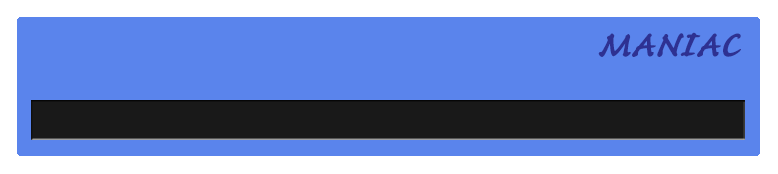
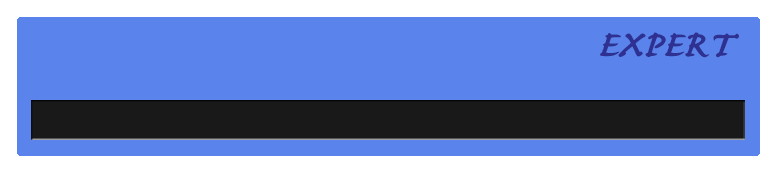
演奏モード名を変更。（MANIAC → EXPERT）

Changed region(s): [[0.7712, 0.1724, 0.9563, 0.3448]]

diff --git a/DTXmatixx/設定/ドラムチッププロパティ管理.cs b/DTXmatixx/設定/ドラムチッププロパティ管理.cs
@@ -1080,78 +1080,78 @@ namespace DTXmatixx.設定
                 switch( kvp.Key )
                 {
                     case チップ種別.Ride:
-                        kvp.Value.表示チップ種別 = ( this._演奏モード == PlayMode.MANIAC ) ?
+                        kvp.Value.表示チップ種別 = ( this._演奏モード == PlayMode.EXPERT ) ?
                             ( ( this._表示レーンの左右.Rideは左 ) ? 表示チップ種別.LeftRide : 表示チップ種別.RightRide ) :
                             ( ( this._表示レーンの左右.Rideは左 ) ? 表示チップ種別.LeftCymbal : 表示チップ種別.RightCymbal );
                         break;
 
                     case チップ種別.Ride_Cup:
-                        kvp.Value.表示チップ種別 = ( this._演奏モード == PlayMode.MANIAC ) ?
+                        kvp.Value.表示チップ種別 = ( this._演奏モード == PlayMode.EXPERT ) ?
                             ( ( this._表示レーンの左右.Rideは左 ) ? 表示チップ種別.LeftRide_Cup : 表示チップ種別.RightRide_Cup ) :
                             ( ( this._表示レーンの左右.Rideは左 ) ? 表示チップ種別.LeftCymbal : 表示チップ種別.RightCymbal );
                         break;
 
                     case チップ種別.China:
-                        kvp.Value.表示チップ種別 = ( this._演奏モード == PlayMode.MANIAC ) ?
+                        kvp.Value.表示チップ種別 = ( this._演奏モード == PlayMode.EXPERT ) ?
                             ( ( this._表示レーンの左右.Chinaは左 ) ? 表示チップ種別.LeftChina : 表示チップ種別.RightChina ) :
                             ( ( this._表示レーンの左右.Chinaは左 ) ? 表示チップ種別.LeftCymbal : 表示チップ種別.RightCymbal );
                         break;
 
                     case チップ種別.Splash:
-                        kvp.Value.表示チップ種別 = ( this._演奏モード == PlayMode.MANIAC ) ?
+                        kvp.Value.表示チップ種別 = ( this._演奏モード == PlayMode.EXPERT ) ?
                             ( ( this._表示レーンの左右.Splashは左 ) ? 表示チップ種別.LeftSplash : 表示チップ種別.RightSplash ) :
                             ( ( this._表示レーンの左右.Splashは左 ) ? 表示チップ種別.LeftCymbal : 表示チップ種別.RightCymbal );
                         break;
 
                     case チップ種別.HiHat_Open:
-                        kvp.Value.表示チップ種別 = ( this._演奏モード == PlayMode.MANIAC ) ? 表示チップ種別.HiHat_Open : 表示チップ種別.HiHat;
+                        kvp.Value.表示チップ種別 = ( this._演奏モード == PlayMode.EXPERT ) ? 表示チップ種別.HiHat_Open : 表示チップ種別.HiHat;
                         break;
 
                     case チップ種別.HiHat_HalfOpen:
-                        kvp.Value.表示チップ種別 = ( this._演奏モード == PlayMode.MANIAC ) ? 表示チップ種別.HiHat_HalfOpen : 表示チップ種別.HiHat;
+                        kvp.Value.表示チップ種別 = ( this._演奏モード == PlayMode.EXPERT ) ? 表示チップ種別.HiHat_HalfOpen : 表示チップ種別.HiHat;
                         break;
 
                     case チップ種別.HiHat_Foot:
-                        kvp.Value.表示チップ種別 = ( this._演奏モード == PlayMode.MANIAC ) ? 表示チップ種別.Foot : 表示チップ種別.LeftPedal;
+                        kvp.Value.表示チップ種別 = ( this._演奏モード == PlayMode.EXPERT ) ? 表示チップ種別.Foot : 表示チップ種別.LeftPedal;
                         break;
 
                     case チップ種別.Snare_OpenRim:
-                        kvp.Value.表示チップ種別 = ( this._演奏モード == PlayMode.MANIAC ) ? 表示チップ種別.Snare_OpenRim : 表示チップ種別.Snare;
+                        kvp.Value.表示チップ種別 = ( this._演奏モード == PlayMode.EXPERT ) ? 表示チップ種別.Snare_OpenRim : 表示チップ種別.Snare;
                         break;
 
                     case チップ種別.Snare_ClosedRim:
-                        kvp.Value.表示チップ種別 = ( this._演奏モード == PlayMode.MANIAC ) ? 表示チップ種別.Snare_ClosedRim : 表示チップ種別.Snare;
+                        kvp.Value.表示チップ種別 = ( this._演奏モード == PlayMode.EXPERT ) ? 表示チップ種別.Snare_ClosedRim : 表示チップ種別.Snare;
                         break;
 
                     case チップ種別.Snare_Ghost:
-                        kvp.Value.表示チップ種別 = ( this._演奏モード == PlayMode.MANIAC ) ? 表示チップ種別.Snare_Ghost : 表示チップ種別.Unknown;
+                        kvp.Value.表示チップ種別 = ( this._演奏モード == PlayMode.EXPERT ) ? 表示チップ種別.Snare_Ghost : 表示チップ種別.Unknown;
                         break;
 
                     case チップ種別.LeftBass:
-                        kvp.Value.表示チップ種別 = ( this._演奏モード == PlayMode.MANIAC ) ? 表示チップ種別.Bass : 表示チップ種別.LeftBass;
-                        kvp.Value.表示レーン種別 = ( this._演奏モード == PlayMode.MANIAC ) ? 表示レーン種別.Bass : 表示レーン種別.Foot;
+                        kvp.Value.表示チップ種別 = ( this._演奏モード == PlayMode.EXPERT ) ? 表示チップ種別.Bass : 表示チップ種別.LeftBass;
+                        kvp.Value.表示レーン種別 = ( this._演奏モード == PlayMode.EXPERT ) ? 表示レーン種別.Bass : 表示レーン種別.Foot;
                         break;
 
                     case チップ種別.Tom1_Rim:
-                        kvp.Value.表示チップ種別 = ( this._演奏モード == PlayMode.MANIAC ) ? 表示チップ種別.Tom1_Rim : 表示チップ種別.Tom1;
+                        kvp.Value.表示チップ種別 = ( this._演奏モード == PlayMode.EXPERT ) ? 表示チップ種別.Tom1_Rim : 表示チップ種別.Tom1;
                         break;
 
                     case チップ種別.Tom2_Rim:
-                        kvp.Value.表示チップ種別 = ( this._演奏モード == PlayMode.MANIAC ) ? 表示チップ種別.Tom2_Rim : 表示チップ種別.Tom2;
+                        kvp.Value.表示チップ種別 = ( this._演奏モード == PlayMode.EXPERT ) ? 表示チップ種別.Tom2_Rim : 表示チップ種別.Tom2;
                         break;
 
                     case チップ種別.Tom3_Rim:
-                        kvp.Value.表示チップ種別 = ( this._演奏モード == PlayMode.MANIAC ) ? 表示チップ種別.Tom3_Rim : 表示チップ種別.Tom3;
+                        kvp.Value.表示チップ種別 = ( this._演奏モード == PlayMode.EXPERT ) ? 表示チップ種別.Tom3_Rim : 表示チップ種別.Tom3;
                         break;
 
                     case チップ種別.LeftCymbal_Mute:
-                        kvp.Value.表示チップ種別 = ( this._演奏モード == PlayMode.MANIAC ) ? 表示チップ種別.LeftCymbal_Mute : 表示チップ種別.Unknown;
-                        kvp.Value.表示レーン種別 = ( this._演奏モード == PlayMode.MANIAC ) ? 表示レーン種別.LeftCymbal : 表示レーン種別.Unknown;
+                        kvp.Value.表示チップ種別 = ( this._演奏モード == PlayMode.EXPERT ) ? 表示チップ種別.LeftCymbal_Mute : 表示チップ種別.Unknown;
+                        kvp.Value.表示レーン種別 = ( this._演奏モード == PlayMode.EXPERT ) ? 表示レーン種別.LeftCymbal : 表示レーン種別.Unknown;
                         break;
 
                     case チップ種別.RightCymbal_Mute:
-                        kvp.Value.表示チップ種別 = ( this._演奏モード == PlayMode.MANIAC ) ? 表示チップ種別.RightCymbal_Mute : 表示チップ種別.Unknown;
-                        kvp.Value.表示レーン種別 = ( this._演奏モード == PlayMode.MANIAC ) ? 表示レーン種別.RightCymbal : 表示レーン種別.Unknown;
+                        kvp.Value.表示チップ種別 = ( this._演奏モード == PlayMode.EXPERT ) ? 表示チップ種別.RightCymbal_Mute : 表示チップ種別.Unknown;
+                        kvp.Value.表示レーン種別 = ( this._演奏モード == PlayMode.EXPERT ) ? 表示レーン種別.RightCymbal : 表示レーン種別.Unknown;
                         break;
                 }
             }
@@ -1173,7 +1173,7 @@ namespace DTXmatixx.設定
                         kvp.Value.表示レーン種別 = ( this._表示レーンの左右.Rideは左 ) ? 表示レーン種別.LeftCymbal : 表示レーン種別.RightCymbal;
                         kvp.Value.AutoPlay種別 = ( this._表示レーンの左右.Rideは左 ) ? AutoPlay種別.LeftCrash : AutoPlay種別.RightCrash;
                         kvp.Value.消音グループ種別 = ( this._表示レーンの左右.Rideは左 ) ? 消音グループ種別.LeftCymbal : 消音グループ種別.RightCymbal;
-                        kvp.Value.表示チップ種別 = ( this._演奏モード == PlayMode.MANIAC ) ?
+                        kvp.Value.表示チップ種別 = ( this._演奏モード == PlayMode.EXPERT ) ?
                             ( ( this._表示レーンの左右.Rideは左 ) ? 表示チップ種別.LeftRide : 表示チップ種別.RightRide ) :
                             ( ( this._表示レーンの左右.Rideは左 ) ? 表示チップ種別.LeftCymbal : 表示チップ種別.RightCymbal );
                         break;
@@ -1182,7 +1182,7 @@ namespace DTXmatixx.設定
                         kvp.Value.表示レーン種別 = ( this._表示レーンの左右.Rideは左 ) ? 表示レーン種別.LeftCymbal : 表示レーン種別.RightCymbal;
                         kvp.Value.AutoPlay種別 = ( this._表示レーンの左右.Rideは左 ) ? AutoPlay種別.LeftCrash : AutoPlay種別.RightCrash;
                         kvp.Value.消音グループ種別 = ( this._表示レーンの左右.Rideは左 ) ? 消音グループ種別.LeftCymbal : 消音グループ種別.RightCymbal;
-                        kvp.Value.表示チップ種別 = ( this._演奏モード == PlayMode.MANIAC ) ?
+                        kvp.Value.表示チップ種別 = ( this._演奏モード == PlayMode.EXPERT ) ?
                             ( ( this._表示レーンの左右.Rideは左 ) ? 表示チップ種別.LeftRide_Cup : 表示チップ種別.RightRide_Cup ) :
                             ( ( this._表示レーンの左右.Rideは左 ) ? 表示チップ種別.LeftCymbal : 表示チップ種別.RightCymbal );
                         break;
@@ -1191,7 +1191,7 @@ namespace DTXmatixx.設定
                         kvp.Value.表示レーン種別 = ( this._表示レーンの左右.Chinaは左 ) ? 表示レーン種別.LeftCymbal : 表示レーン種別.RightCymbal;
                         kvp.Value.AutoPlay種別 = ( this._表示レーンの左右.Chinaは左 ) ? AutoPlay種別.LeftCrash : AutoPlay種別.RightCrash;
                         kvp.Value.消音グループ種別 = ( this._表示レーンの左右.Chinaは左 ) ? 消音グループ種別.LeftCymbal : 消音グループ種別.RightCymbal;
-                        kvp.Value.表示チップ種別 = ( this._演奏モード == PlayMode.MANIAC ) ?
+                        kvp.Value.表示チップ種別 = ( this._演奏モード == PlayMode.EXPERT ) ?
                             ( ( this._表示レーンの左右.Chinaは左 ) ? 表示チップ種別.LeftChina : 表示チップ種別.RightChina ) :
                             ( ( this._表示レーンの左右.Chinaは左 ) ? 表示チップ種別.LeftCymbal : 表示チップ種別.RightCymbal );
                         break;
@@ -1200,7 +1200,7 @@ namespace DTXmatixx.設定
                         kvp.Value.表示レーン種別 = ( this._表示レーンの左右.Splashは左 ) ? 表示レーン種別.LeftCymbal : 表示レーン種別.RightCymbal;
                         kvp.Value.AutoPlay種別 = ( this._表示レーンの左右.Splashは左 ) ? AutoPlay種別.LeftCrash : AutoPlay種別.RightCrash;
                         kvp.Value.消音グループ種別 = ( this._表示レーンの左右.Splashは左 ) ? 消音グループ種別.LeftCymbal : 消音グループ種別.RightCymbal;
-                        kvp.Value.表示チップ種別 = ( this._演奏モード == PlayMode.MANIAC ) ?
+                        kvp.Value.表示チップ種別 = ( this._演奏モード == PlayMode.EXPERT ) ?
                             ( ( this._表示レーンの左右.Splashは左 ) ? 表示チップ種別.LeftSplash : 表示チップ種別.RightSplash ) :
                             ( ( this._表示レーンの左右.Splashは左 ) ? 表示チップ種別.LeftCymbal : 表示チップ種別.RightCymbal );
                         break;

diff --git a/DTXmatixx/ステージ/認証/ユーザリスト.cs b/DTXmatixx/ステージ/認証/ユーザリスト.cs
@@ -34,21 +34,21 @@ namespace DTXmatixx.ステージ.認証
                 this.子を追加する( image = new 画像( @"$(System)images\認証\パネル_0.png" ) );
                 this._ユーザパネル.Add( PlayMode.BASIC, image );
                 this.子を追加する( image = new 画像( @"$(System)images\認証\パネル_1.png" ) );
-                this._ユーザパネル.Add( PlayMode.MANIAC, image );
+                this._ユーザパネル.Add( PlayMode.EXPERT, image );
 
                 this._ユーザパネル光彩付き = new Dictionary<PlayMode, 画像>();
 
                 this.子を追加する( image = new 画像( @"$(System)images\認証\パネル_0_光彩あり.png" ) );
                 this._ユーザパネル光彩付き.Add( PlayMode.BASIC, image );
                 this.子を追加する( image = new 画像( @"$(System)images\認証\パネル_1_光彩あり.png" ) );
-                this._ユーザパネル光彩付き.Add( PlayMode.MANIAC, image );
+                this._ユーザパネル光彩付き.Add( PlayMode.EXPERT, image );
 
                 this._ユーザ肩書きパネル = new Dictionary<PlayMode, 画像>();
 
                 this.子を追加する( image = new 画像( @"$(System)images\認証\肩書きパネル_0.png" ) );
                 this._ユーザ肩書きパネル.Add( PlayMode.BASIC, image );
                 this.子を追加する( image = new 画像( @"$(System)images\認証\肩書きパネル_1.png" ) );
-                this._ユーザ肩書きパネル.Add( PlayMode.MANIAC, image );
+                this._ユーザ肩書きパネル.Add( PlayMode.EXPERT, image );
 
                 this.子を追加する( this._ユーザ名 = new 文字列画像() {
                     表示文字列 = "",

diff --git a/DTXmatixx/ステージ/オプション設定/オプション設定ステージ.cs b/DTXmatixx/ステージ/オプション設定/オプション設定ステージ.cs
@@ -89,7 +89,7 @@ namespace DTXmatixx.ステージ.オプション設定
                     new パネル_文字列リスト(
                         パネル名: "演奏モード",
                         初期選択肢番号: (int) user.演奏モード,
-                        選択肢初期値s: new[] { "BASIC", "MANIAC" },
+                        選択肢初期値s: new[] { "BASIC", "EXPERT" },
                         値の変更処理: new Action<パネル>( ( panel ) => {
                             user.演奏モード = (PlayMode) ( (パネル_文字列リスト) panel ).現在選択されている選択肢の番号;
                             user.ドラムチッププロパティ管理.反映する( user.演奏モード );

diff --git a/DTXmatixx/ステージ/演奏/演奏ステージ.cs b/DTXmatixx/ステージ/演奏/演奏ステージ.cs
@@ -955,7 +955,7 @@ namespace DTXmatixx.ステージ.演奏
 
 				// チップの大きさを計算する。
 				float 大きさ0to1 = 1.0f;
-				if( App.ユーザ管理.ログオン中のユーザ.演奏モード == PlayMode.MANIAC )
+				if( App.ユーザ管理.ログオン中のユーザ.演奏モード == PlayMode.EXPERT )
 				{
 					// 音量により大きさ可変。
 					大きさ0to1 = Math.Min( 1.0f, chip.音量 / (float) チップ.既定音量 );	// 既定音量未満は大きさを小さくするが、既定音量以上は大きさ1.0のままとする。

diff --git a/DTXmatixx/データベース/ユーザ/User06.cs b/DTXmatixx/データベース/ユーザ/User06.cs
@@ -145,7 +145,7 @@ namespace DTXmatixx.データベース.ユーザ
 
         /// <summary>
         ///		演奏モード。
-        ///		0: Basic, 1: Maniac 
+        ///		0: Basic, 1: Expert
         /// </summary>
         [Column( DbType = "INT", CanBeNull = false )]
         public int PlayMode { get; set; }

diff --git a/DTXmatixx/設定/PlayMode.cs b/DTXmatixx/設定/PlayMode.cs
@@ -12,6 +12,6 @@ namespace DTXmatixx.設定
     enum PlayMode : int
     {
         BASIC = 0,
-        MANIAC = 1,
+        EXPERT = 1,
     }
 }
